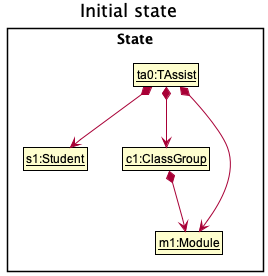
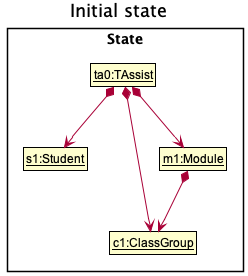
Update state diagram for add feature in DG

diff --git a/docs/DeveloperGuide.md b/docs/DeveloperGuide.md
@@ -239,9 +239,11 @@ The following activity diagram summarizes what happens when a user executes a de
 
 <img src="images/DeleteActivityDiagram.png" width="250" />
 
-### Enrol feature
+### \[Proposed\] Enrol Feature
 
-The enrol mechanism is facilitated by `TAssist`. Its functionality, usage and behaviour is the only for student entity. Additionally, it implements the following operations:
+#### Proposed Implementation
+
+The proposed enrol mechanism is facilitated by `TAssist`. Its functionality, usage and behaviour is the only for student entity. Additionally, it implements the following operations:
 
 * `EnrolCommandParser#parse()` — Parses the command arguments.
 * `EnrolCommand#execute()` — Executes `ModelManager#enrolStudent()` with given student(s) and class group.
